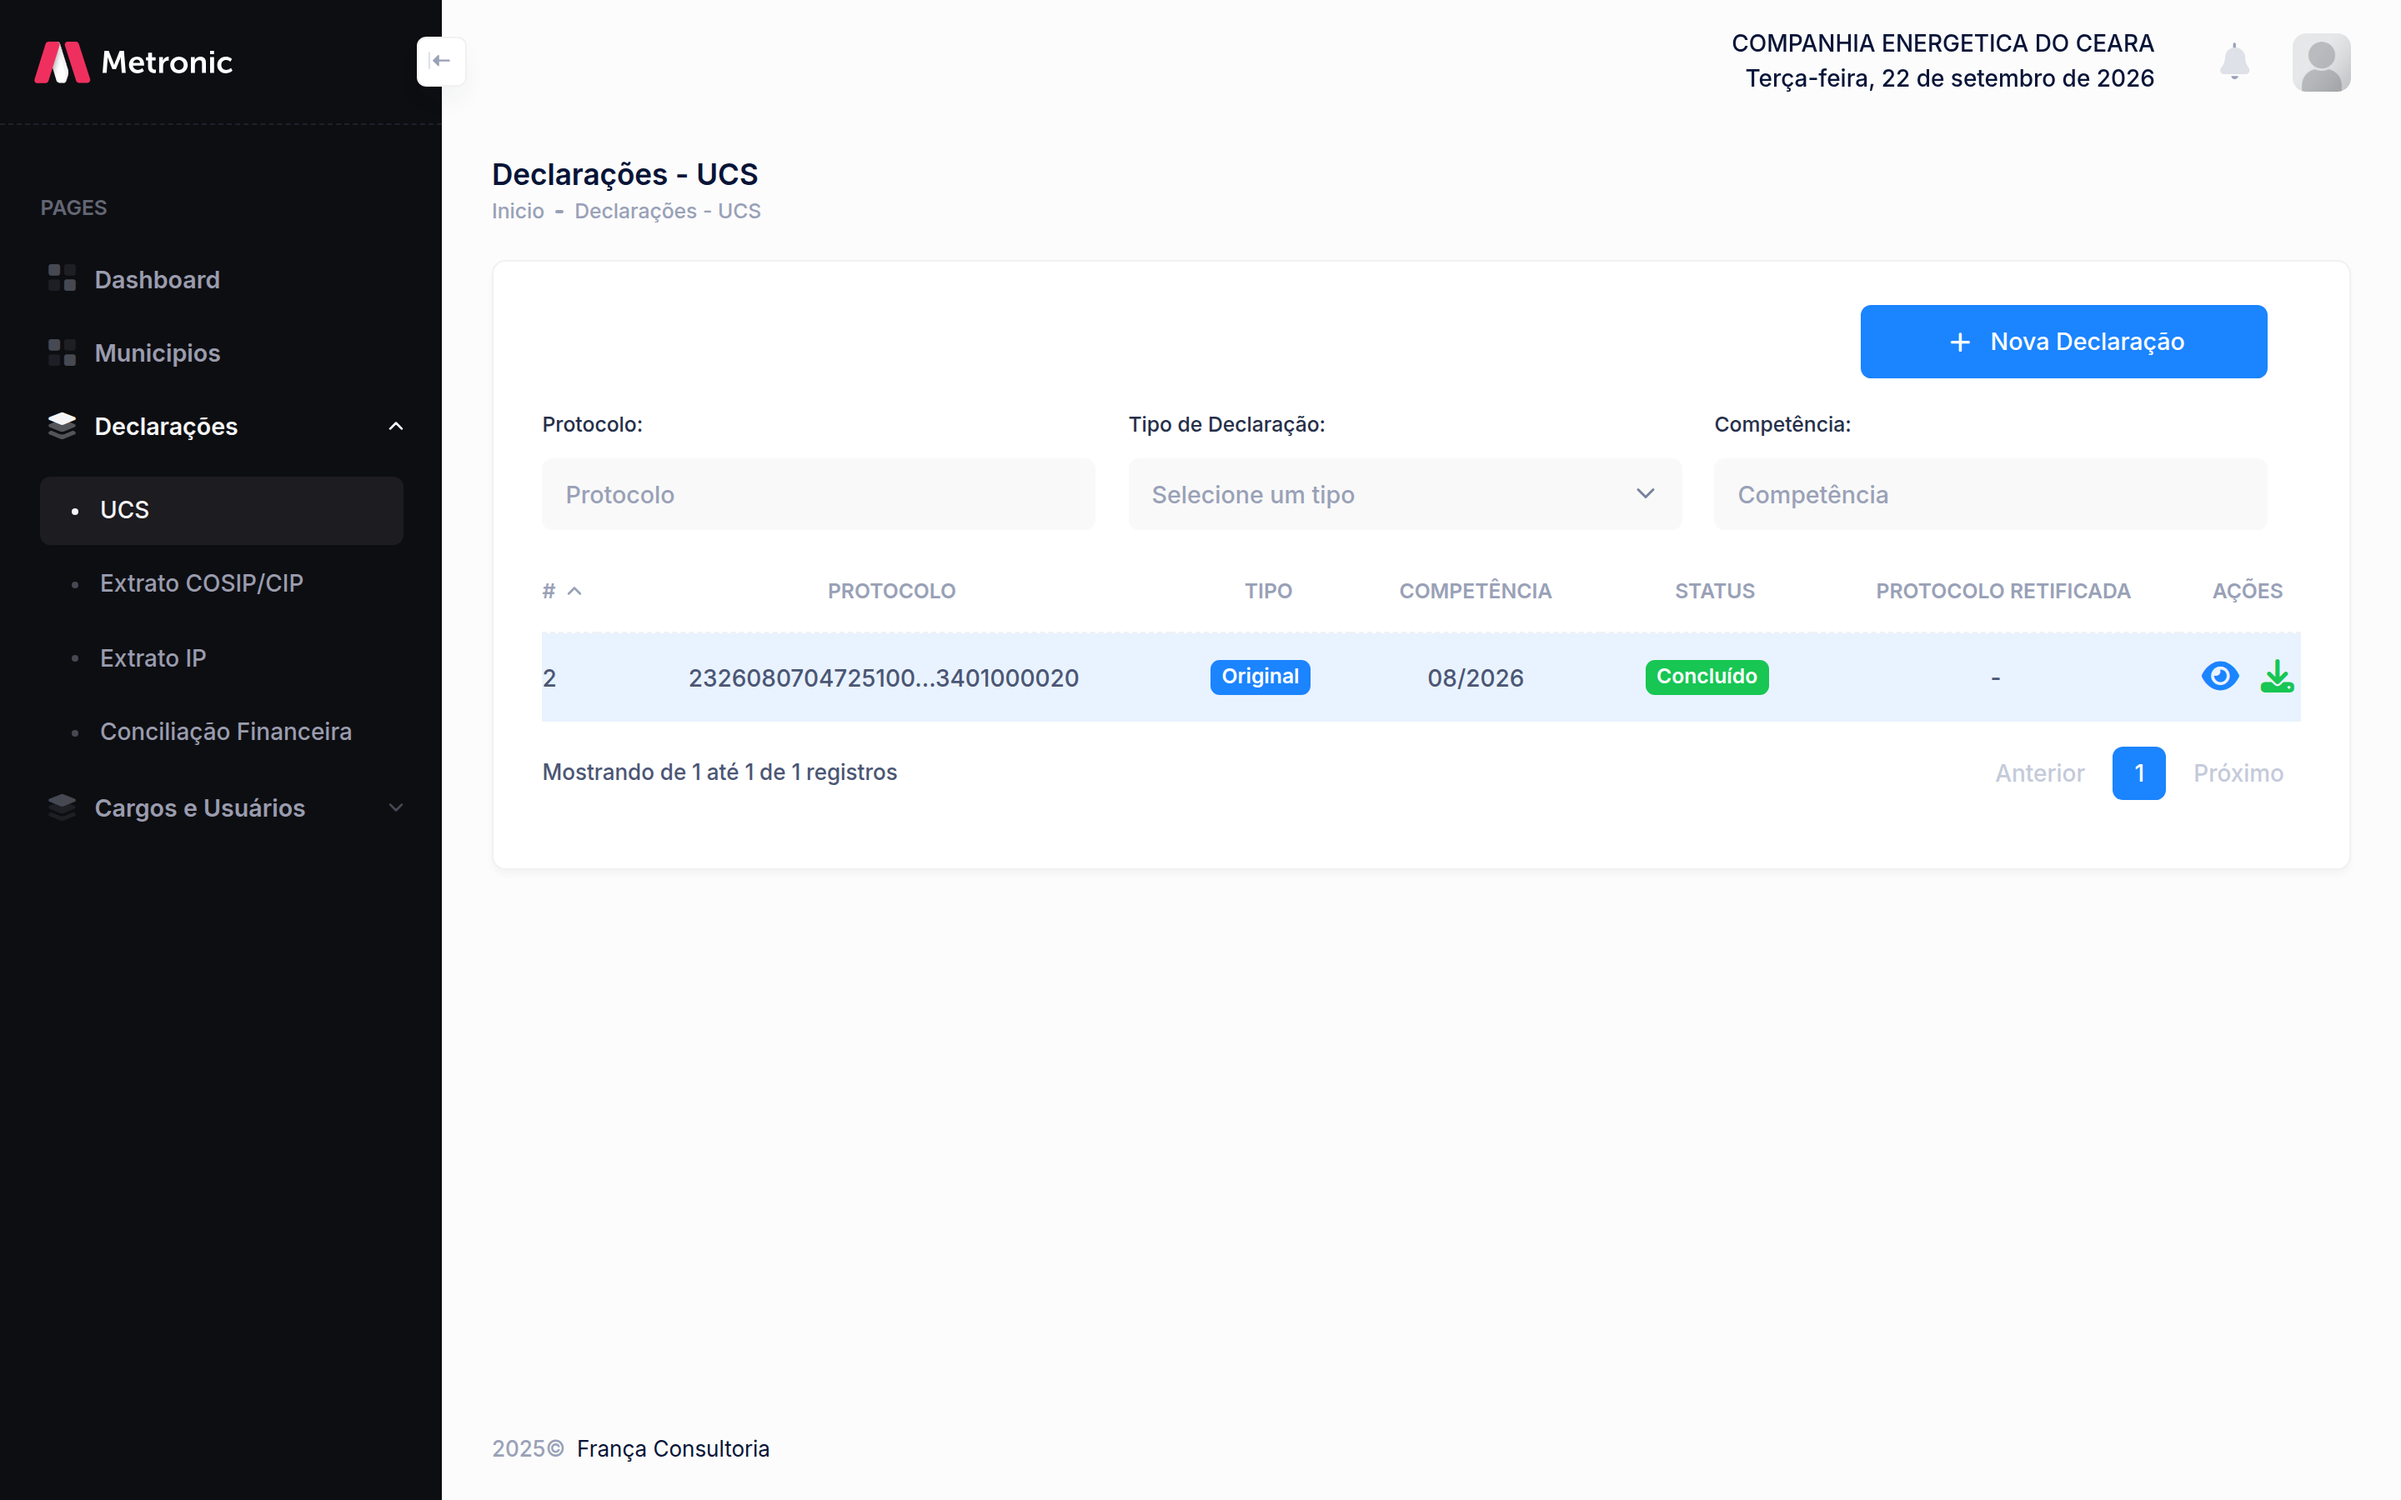
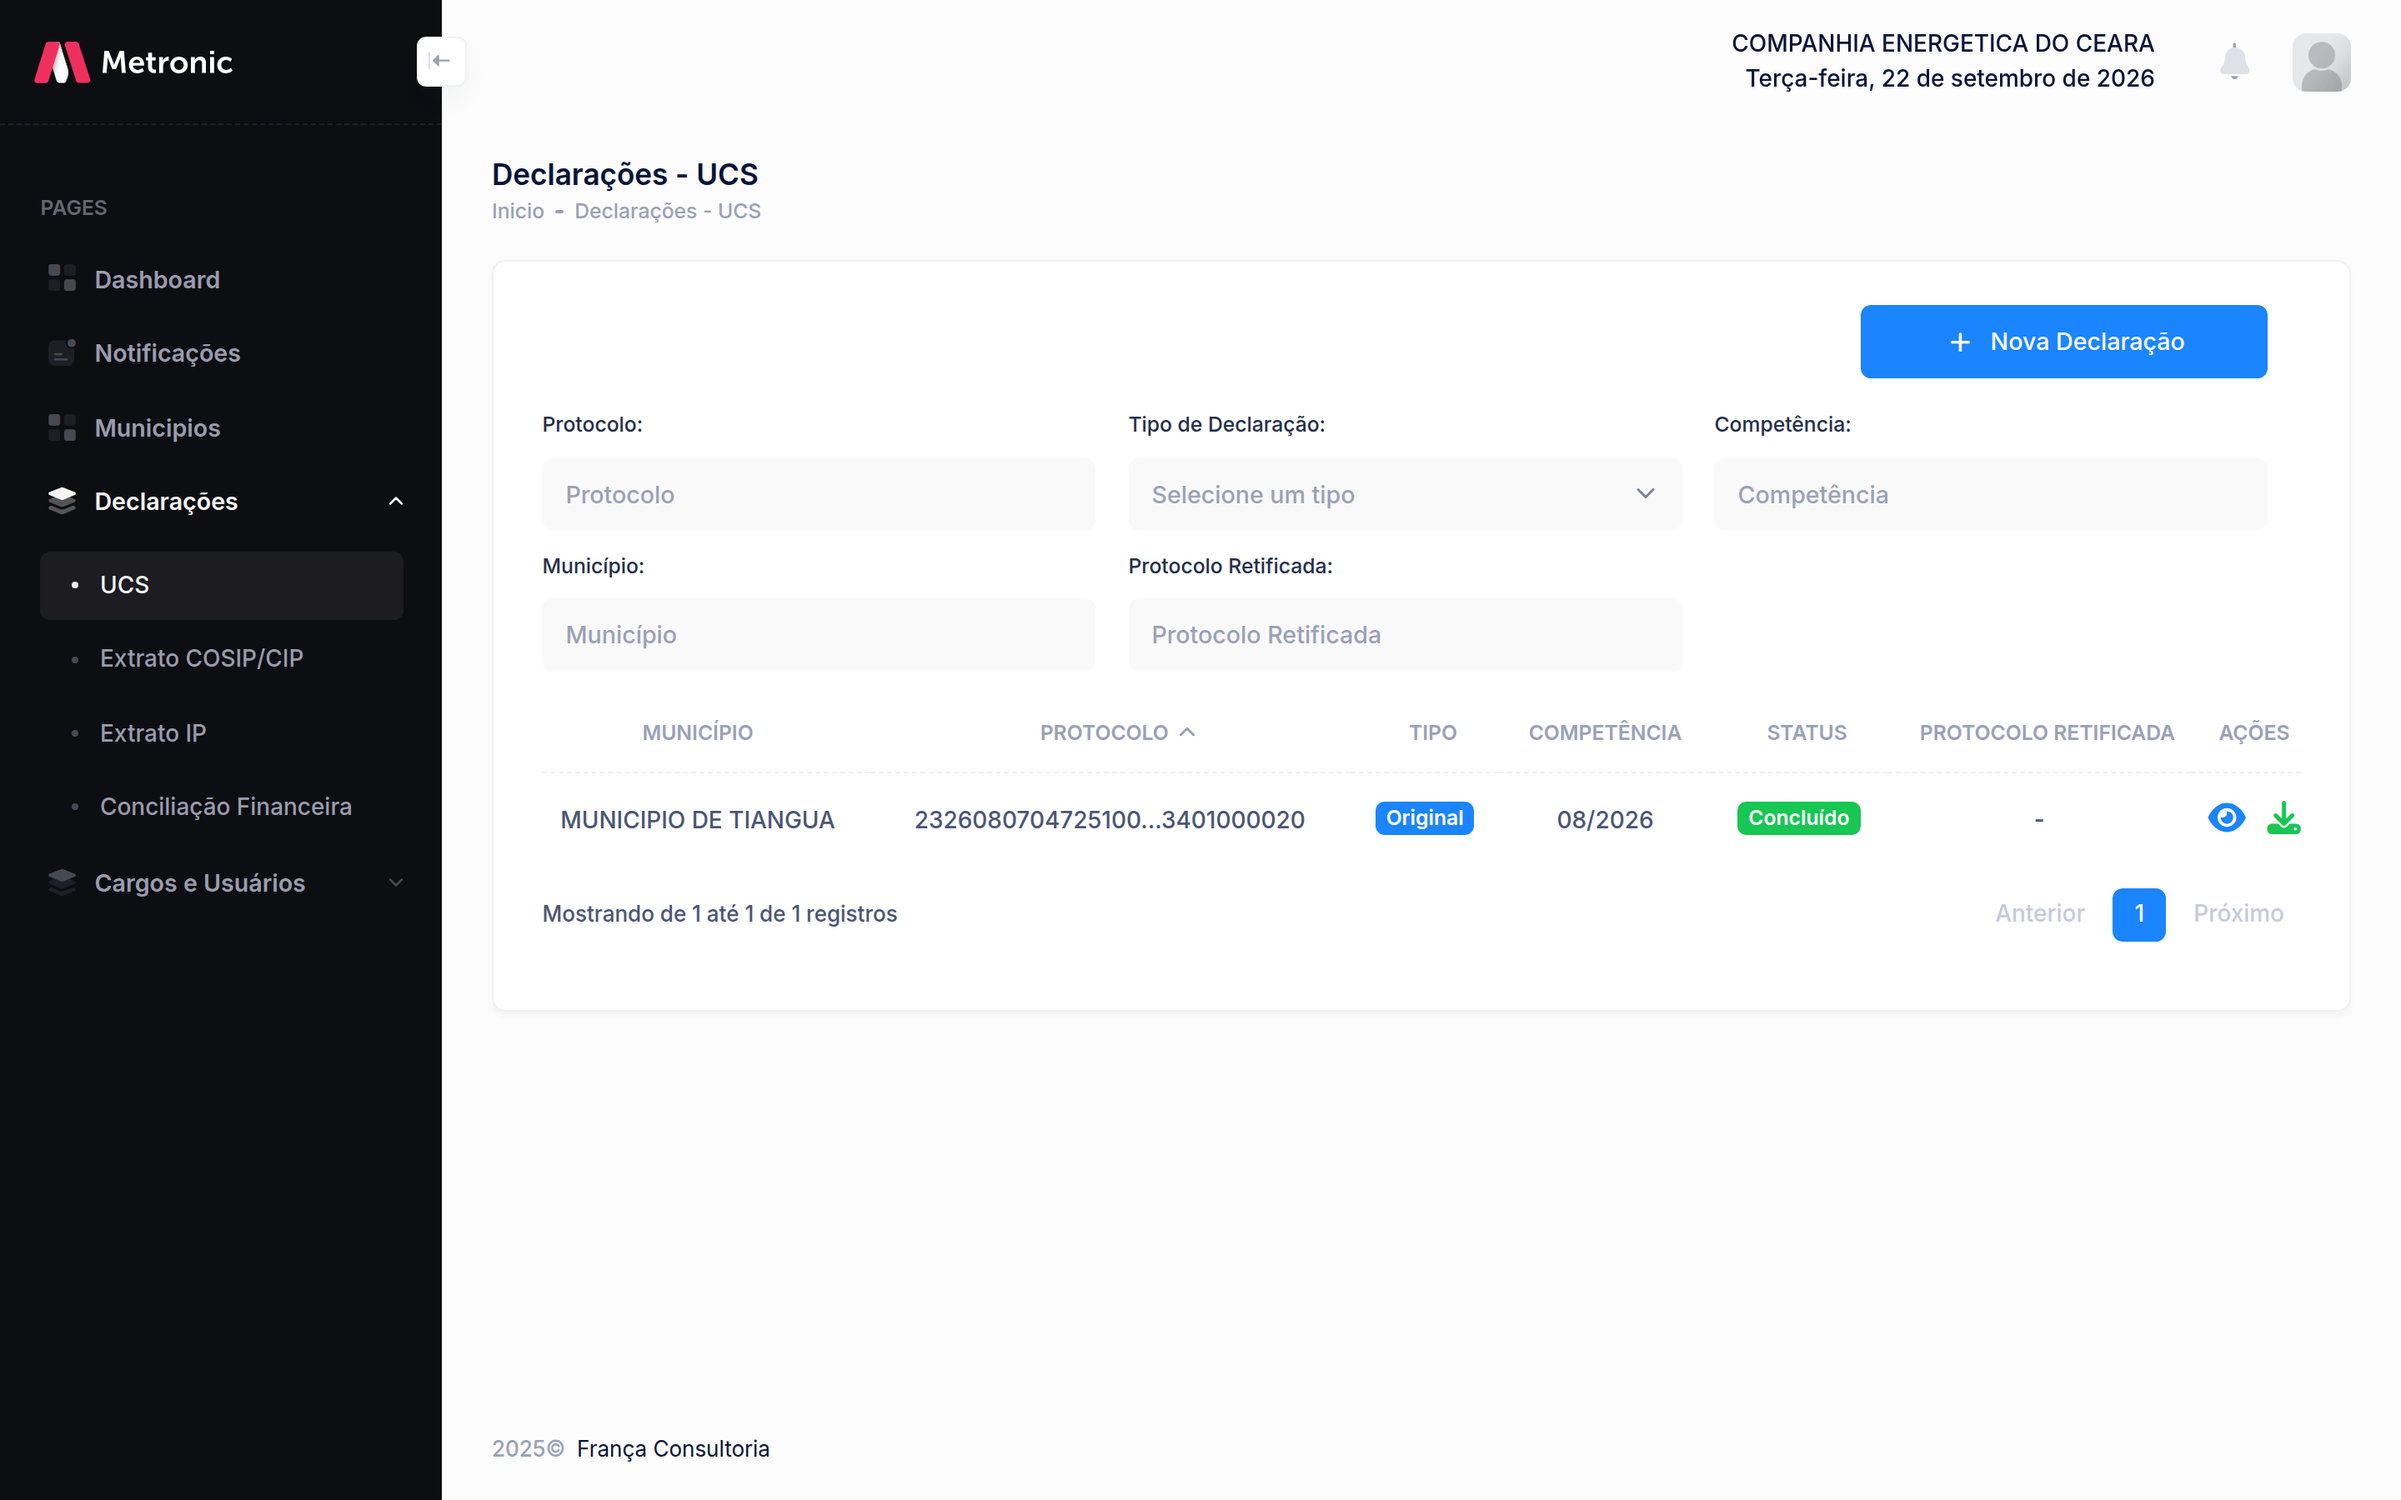
docs: atualiza a listagem de declarações no guia do painel

diff --git a/guia-painel-concessionaria.html b/guia-painel-concessionaria.html
@@ -610,15 +610,16 @@
     </table>
 
     <div class="subsecao-titulo" id="s5-3">5.3 Listagem e filtros</div>
-    <p>A listagem mostra as declarações municipais já aceitas. As colunas são número, protocolo, tipo, competência, status, protocolo da declaração retificada e ações. O protocolo longo aparece abreviado, com o início e o fim visíveis.</p>
-    <p>Os filtros são os mesmos nos quatro módulos: protocolo, tipo de declaração (Original ou Retificadora) e competência (mês e ano). <strong>Nova Declaração</strong> abre o envio e só aparece para quem tem permissão de entregar o módulo.</p>
+    <p>A listagem mostra as declarações municipais já aceitas. As colunas são município (razão social), protocolo, tipo, competência, status, protocolo da declaração retificada e ações. O protocolo longo aparece abreviado, com o início e o fim visíveis.</p>
+    <p>Os filtros são os mesmos nos quatro módulos: protocolo, tipo de declaração (Original ou Retificadora), competência (mês e ano), município e protocolo da declaração retificada. <strong>Nova Declaração</strong> abre o envio e só aparece para quem tem permissão de entregar o módulo.</p>
     <p>A lista não traz arquivo rejeitado nem entrega ainda em validação. Entram somente as declarações municipais com status <strong>Concluído</strong> ou <strong>Retificada</strong>. A consulta abre o detalhe; o download do arquivo aparece na linha, exceto quando o status é Retificada.</p>
     <figure class="figura">
-      <img src="imagens/painel-concessionaria/17-declaracoes-ucs.png" alt="Listagem de declarações UCS com filtros de protocolo, tipo e competência, status Concluído e o botão Nova Declaração">
+      <img src="imagens/painel-concessionaria/17-declaracoes-ucs.png" alt="Listagem de declarações UCS com município, protocolo, tipo, competência, status e protocolo retificada">
       <figcaption><strong>Figura 16.</strong> Declarações de UCS. Extrato COSIP/CIP, Extrato IP e Conciliação Financeira repetem os mesmos filtros, colunas e ações; muda o título da página e o item marcado no menu.</figcaption>
     </figure>
     <table>
       <tr><th>Coluna</th><th>Conteúdo</th></tr>
+      <tr><td>Município</td><td>Razão social do município da declaração</td></tr>
       <tr><td>Protocolo</td><td>Protocolo da declaração do município</td></tr>
       <tr><td>Tipo</td><td>Original ou Retificadora</td></tr>
       <tr><td>Competência</td><td>Mês e ano da declaração</td></tr>
